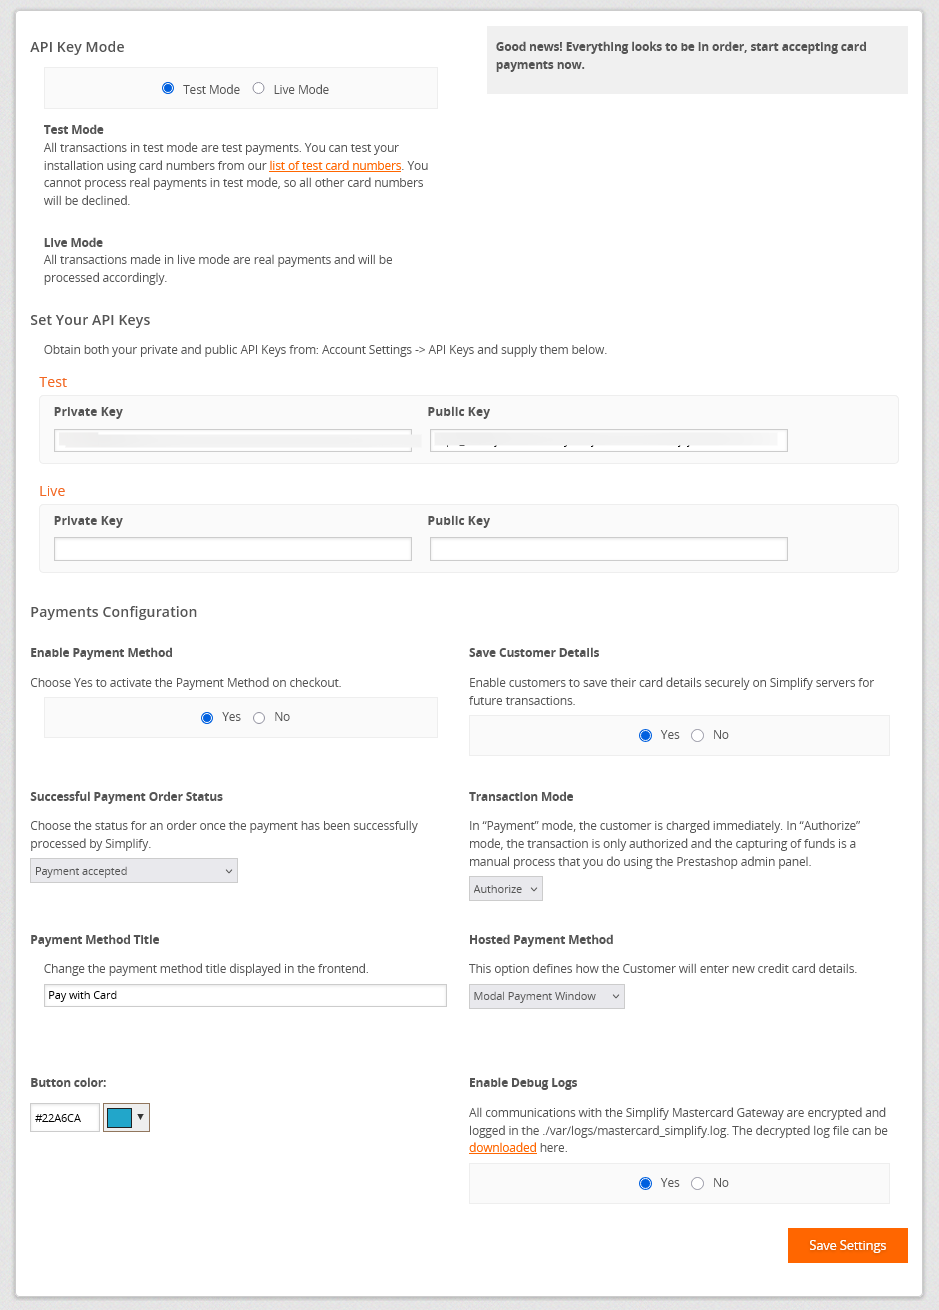
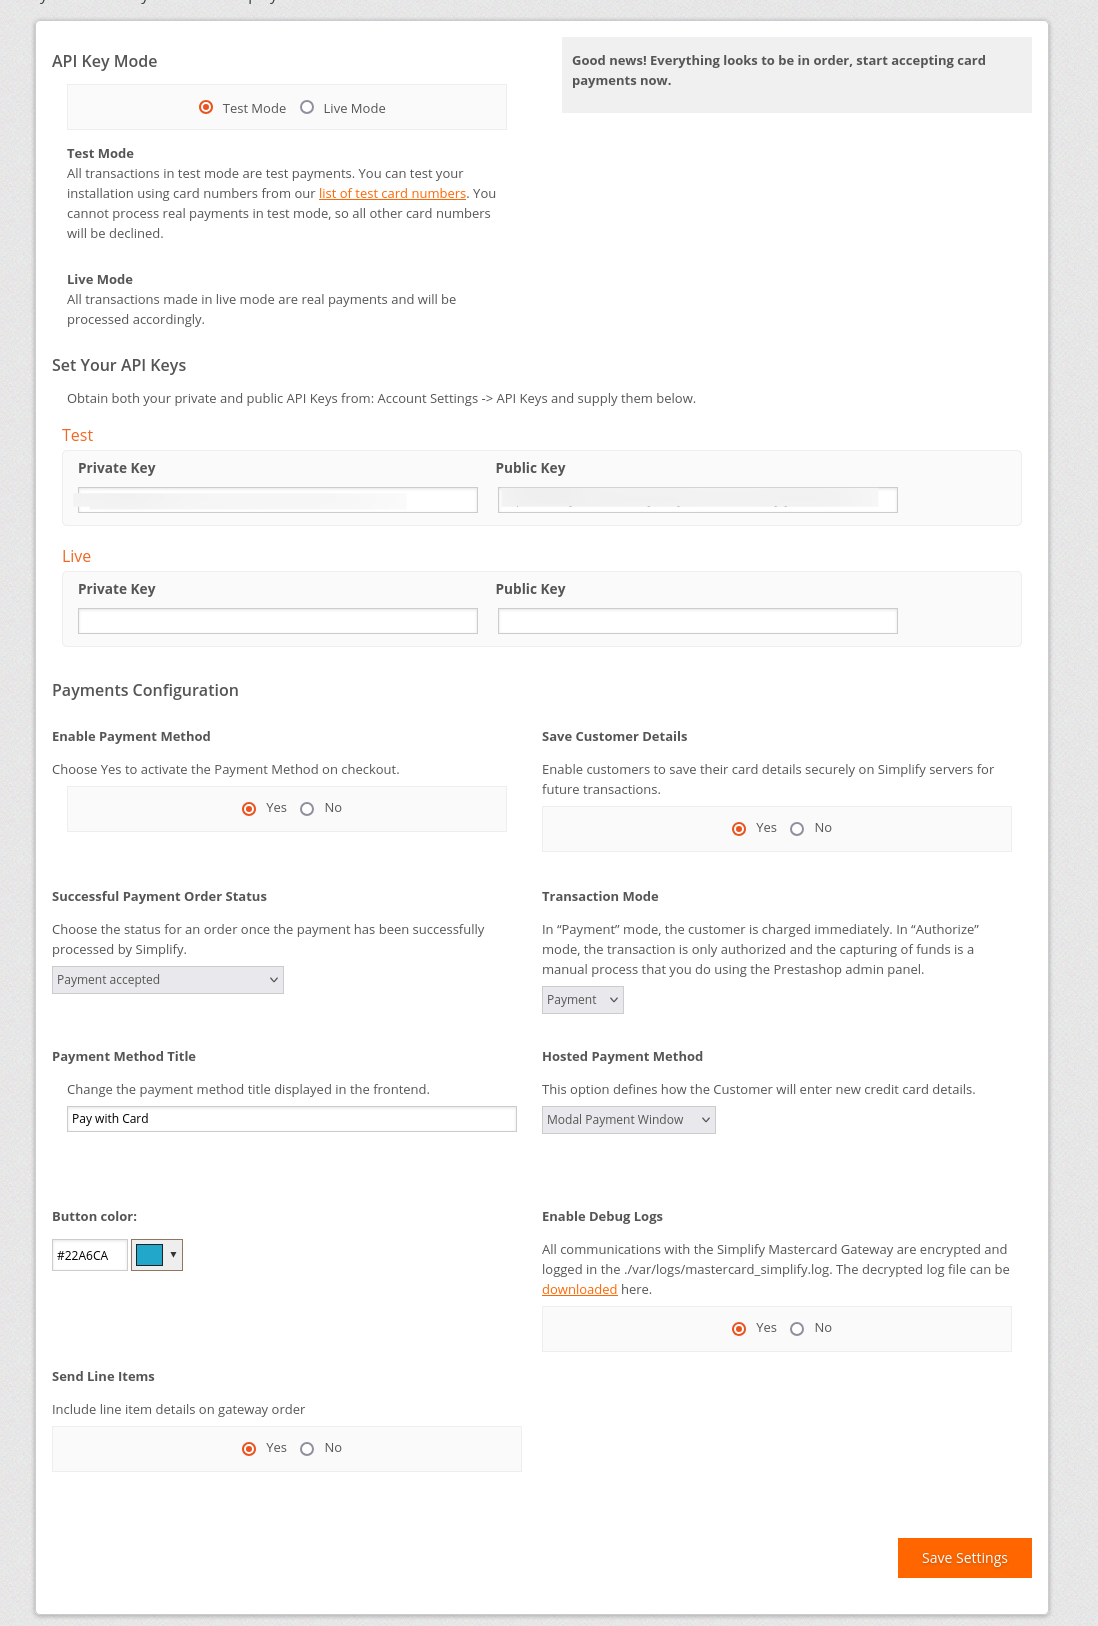
Enhanced Compatibility: Compatible with PHP 8.1 & PrestaShop 8.2.x (tested with v8.2.0), Implemented a feature to enable/disable the transmission of line items to the payment gateway.

diff --git a/README.md b/README.md
@@ -8,8 +8,8 @@ The Simplify Commerce module is not bundled in the PrestaShop download.
 
 The latest release of the plugin has the following system requirements:
 
-- PHP version 8.0 or higher is mandatory.
-- PrestaShop version 8.0.4 or later is required. However, we strongly recommend using the latest available version of PrestaShop for optimal performance.
+- PHP version 8.1.
+- PrestaShop version 8.2.0 or later is required. However, we strongly recommend using the latest available version of PrestaShop for optimal performance.
 
 ## Documentation
 
@@ -67,6 +67,12 @@ Version v2.4.3
 - Implemented a feature to enable or disable debug logging. All communication data is encrypted and stored in a log file.
 - Added void details to the order page.
 
+Version v2.4.4
+- Enhanced Compatibility: Compatible with PHP 8.1 & PrestaShop 8.2.x (tested with v8.2.0).
+- Implemented a feature to enable/disable the transmission of line items to the payment gateway.
+- As part of plugin analytics, the plugin will start capturing download count from GitHub and the active installation count. The Active count, Store Name, Store URL, and the Country configured in the PrestaShop Admin page will be captured once the Live Private Key and Public Key are saved in the configuration page.
+- Minor bug fixes.
+
 ## Installation
 1. Make a backup of your site before applying new mods etc.
 2. Download the .zip file of the latest release of the extension from https://github.com/simplifycom/simplify-prestashop-module/releases/latest
@@ -89,7 +95,8 @@ Please proceed with the following actions to configure the payment method:
 11. If multiple Payment Providers are used, adjust the Sort Order to determine their display sequence on the checkout form.
 12. Option to choose Button color: Please select your preferred color from the options provided.
 13. Enable/Disable the option to log data into ./var/logs/mastercard_simplify.log. All communications with the Simplify Mastercard Gateway are securely encrypted. You can also download the decrypted log file directly from the plugin configuration page.
-14. Remember to enable the extension to activate the changes.
+14. Enable/Disable this option to send the additional data to the Mastercard Gateway.
+15. Remember to enable the extension to activate the changes.
 
 ![Configuration](docs/images/configuration.png "Configuration")
 
